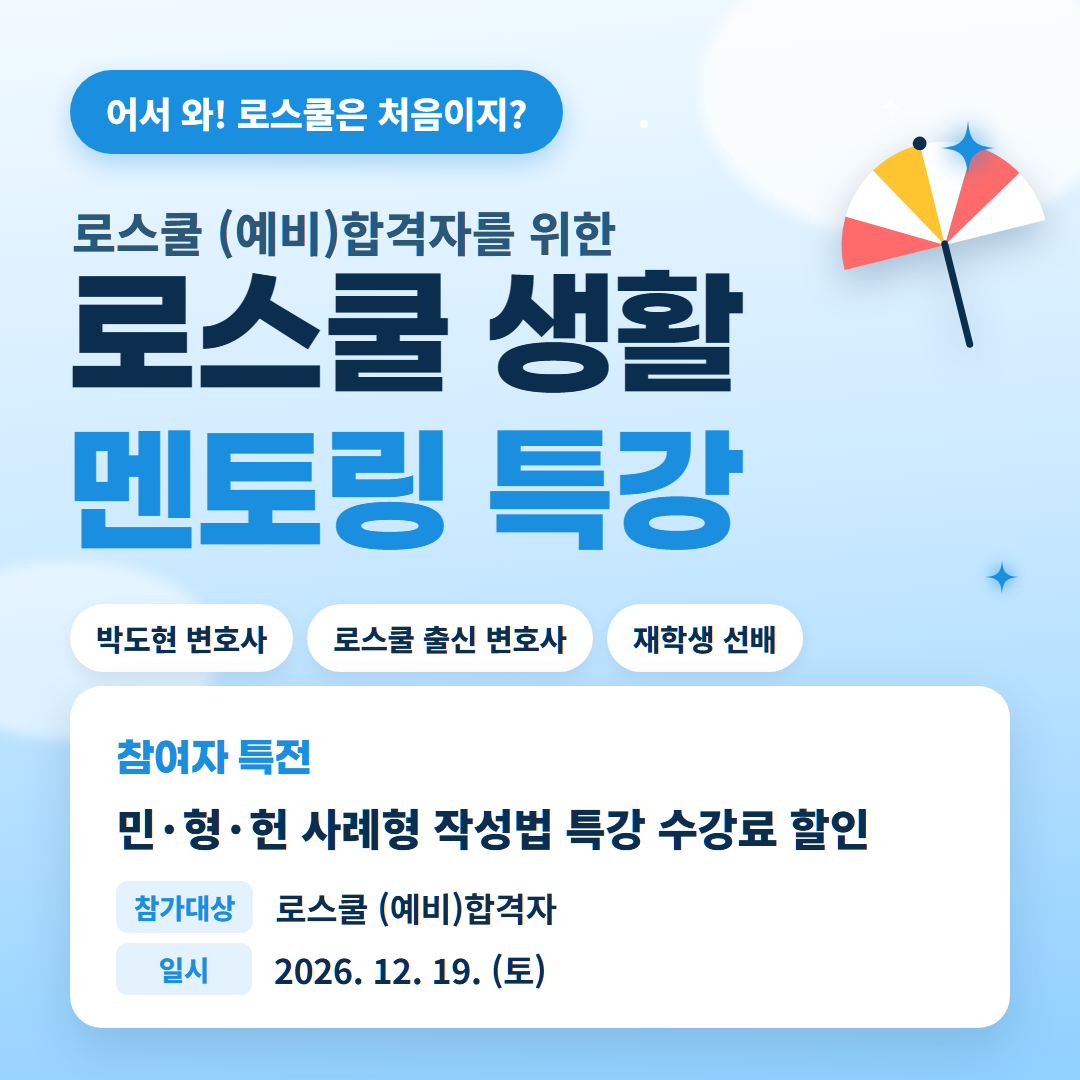
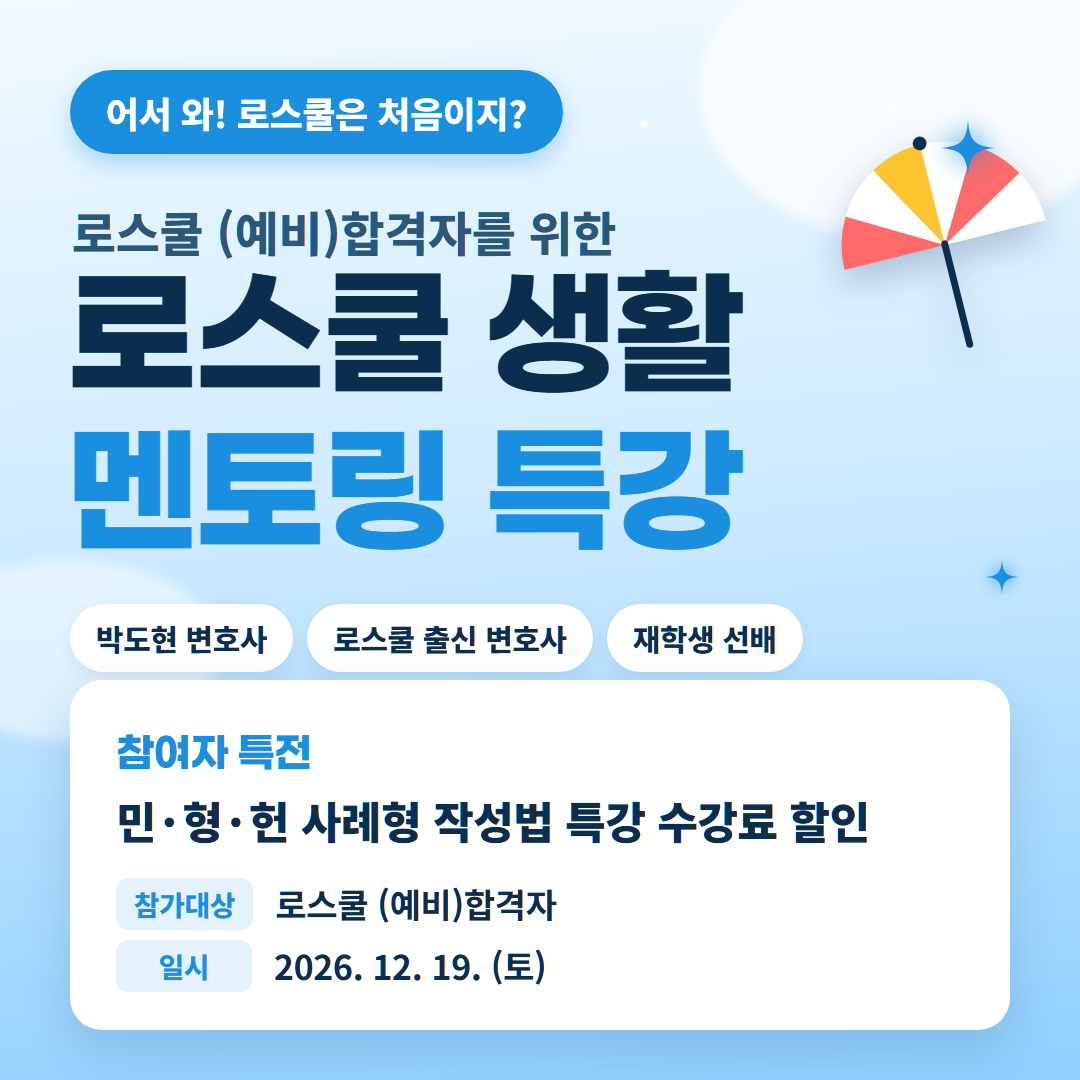
배너 최신본(멘토링·서포터스 정렬) 반영, 배너 그림 캐시 무효화 버전값 추가

diff --git a/js/config.js b/js/config.js
@@ -43,6 +43,8 @@ window.SITE_CONFIG = {
   // 배너 6종. 매 방문마다 무작위로 둘을 골라 위(정사각)·아래(가로)에 하나씩 보여준다(같은 배너가 겹치지 않음).
   // 이미지 원본: E:\OneDrive_SH_Post_LEET6\홍보\이미지\배너_정사각_1080_*.png / 배너_가로_2000x400_*.png → img/banners/sq-*.png / wide-*.png
   // url이 비어 있으면 눌러도 이동하지 않는다(멘토링·서포터스는 주소 미정). 빼려면 목록에서 지운다.
+  // 배너 그림을 같은 이름으로 덮어쓰면 이 값을 바꾼다(브라우저가 예전 그림을 다시 쓰지 않게).
+  bannerVersion: '20261128c',
   banners: [
     { key: 'interview',  alt: '면접 문제 제보 — 가·나군 면접 응시생 리워드 증정', url: 'https://forms.cloud.microsoft/r/9hYfptwVrL' },
     { key: 'result',     alt: '로스쿨 입시 결과 제보 EVENT', url: 'https://cafe.daum.net/lsinfo/nafW/79' },

diff --git a/js/app.js b/js/app.js
@@ -361,7 +361,7 @@
     slots.forEach((x, k) => { x.i = n > 1 ? (first + k * (1 + Math.floor(Math.random() * (n - 1)))) % n : 0; });
     function render(x) {
       const b = list[x.i];
-      const img = `<img src="img/banners/${x.kind}-${esc(b.key)}.png" alt="${esc(b.alt)}" width="${x.w}" height="${x.h}">`;
+      const img = `<img src="img/banners/${x.kind}-${esc(b.key)}.png?v=${esc(C.bannerVersion || "")}" alt="${esc(b.alt)}" width="${x.w}" height="${x.h}">`;
       x.el.querySelector('.bn-link').outerHTML = b.url
         ? `<a class="bn-link" href="${esc(b.url)}" target="_blank" rel="noopener">${img}</a>`
         : `<span class="bn-link nolink">${img}</span>`;

diff --git a/CLAUDE.md b/CLAUDE.md
@@ -80,7 +80,7 @@ CNAME                   lawpass.net
 
 - **머리글**: 로고 마크(갈색 둥근 사각형 + L + 체크) + "Lawpass.net"(.net 갈색) + 구분선 + "**박도현 변호사**의 / 로스쿨 입시 종합 정보". 모바일은 2줄(이름 줄 / 메뉴 줄).
 - **카운트다운**: 모든 탭 맨 위 한 줄에 [카운트다운 | 📢 카페 공지](바로가기 탭 아래쪽 공지는 숨김). `config.countdown.events`(label·note·at(+09:00)·afterText) + `finals: true`면 전형일정의 최종 합격자 발표를 날짜별로 묶어(그날 적힌 가장 이른 시각, 없으면 09:00) 이어 붙인다. 빠른 순으로 하나씩 보여주고, afterText가 있으면 시각 뒤 그날 자정까지 그 문구를 보여준 뒤 다음으로 넘어간다. 점검은 주소 뒤 `?cdnow=2026-12-10T12:00:00%2B09:00`.
-- **배너**: 7종(`config.banners`: key·alt·url). PC 맨 위 오른쪽 410px 정사각(왼쪽 타이머·공지 묶음은 그림 높이 410px에 맞춤)(`img/banners/sq-{key}.png`, 1080×1080), 모든 탭 맨 아래 가로(`wide-{key}.png`, 2000×400, 최대 폭 1000px). 방문마다 서로 다른 둘을 무작위로 고르고, 좌우 버튼·아래 점으로 넘길 때도 위·아래가 같은 배너가 되지 않게 건너뛴다. url이 빈 배너는 눌러도 이동하지 않는다(멘토링·서포터스 주소 미정). 모바일(820px 이하)은 타이머·맨 위 카페 공지를 빼고 정사각 배너를 맨 위에 두며, 바로가기 탭 공지를 보인다.
+- **배너**: 7종(`config.banners`: key·alt·url; 그림을 덮어쓰면 `config.bannerVersion`을 바꿔 캐시를 무효화). PC 맨 위 오른쪽 410px 정사각(왼쪽 타이머·공지 묶음은 그림 높이 410px에 맞춤)(`img/banners/sq-{key}.png`, 1080×1080), 모든 탭 맨 아래 가로(`wide-{key}.png`, 2000×400, 최대 폭 1000px). 방문마다 서로 다른 둘을 무작위로 고르고, 좌우 버튼·아래 점으로 넘길 때도 위·아래가 같은 배너가 되지 않게 건너뛴다. url이 빈 배너는 눌러도 이동하지 않는다(멘토링·서포터스 주소 미정). 모바일(820px 이하)은 타이머·맨 위 카페 공지를 빼고 정사각 배너를 맨 위에 두며, 바로가기 탭 공지를 보인다.
 - **추합현황**: 안내문(빨간 글자 의미 포함) → 📢 카페 공지([공지] 고정글만) → 큰 제보 버튼 2개(시트 직접 입력 = 2026 탭 / 카페 제보 게시글) → 연도 선택(2026~2020) → 전체/가군/나군 → 보기(표 / 학교별 추이 / 학교 비교) → 학교 검색.
   - 표: 원문 그대로, 확인값 빨간 굵은 글씨, 머리글 가운데 정렬, 학교명 열 고정.
   - 학교별 추이: 연도별 총계 막대(확인값 빨강/제보값 검정, 나군은 연한 막대, 통합은 "통합 n") + 아래 범례 상자 + 주차별 누적 선그래프 + 연도별 원문 표.
